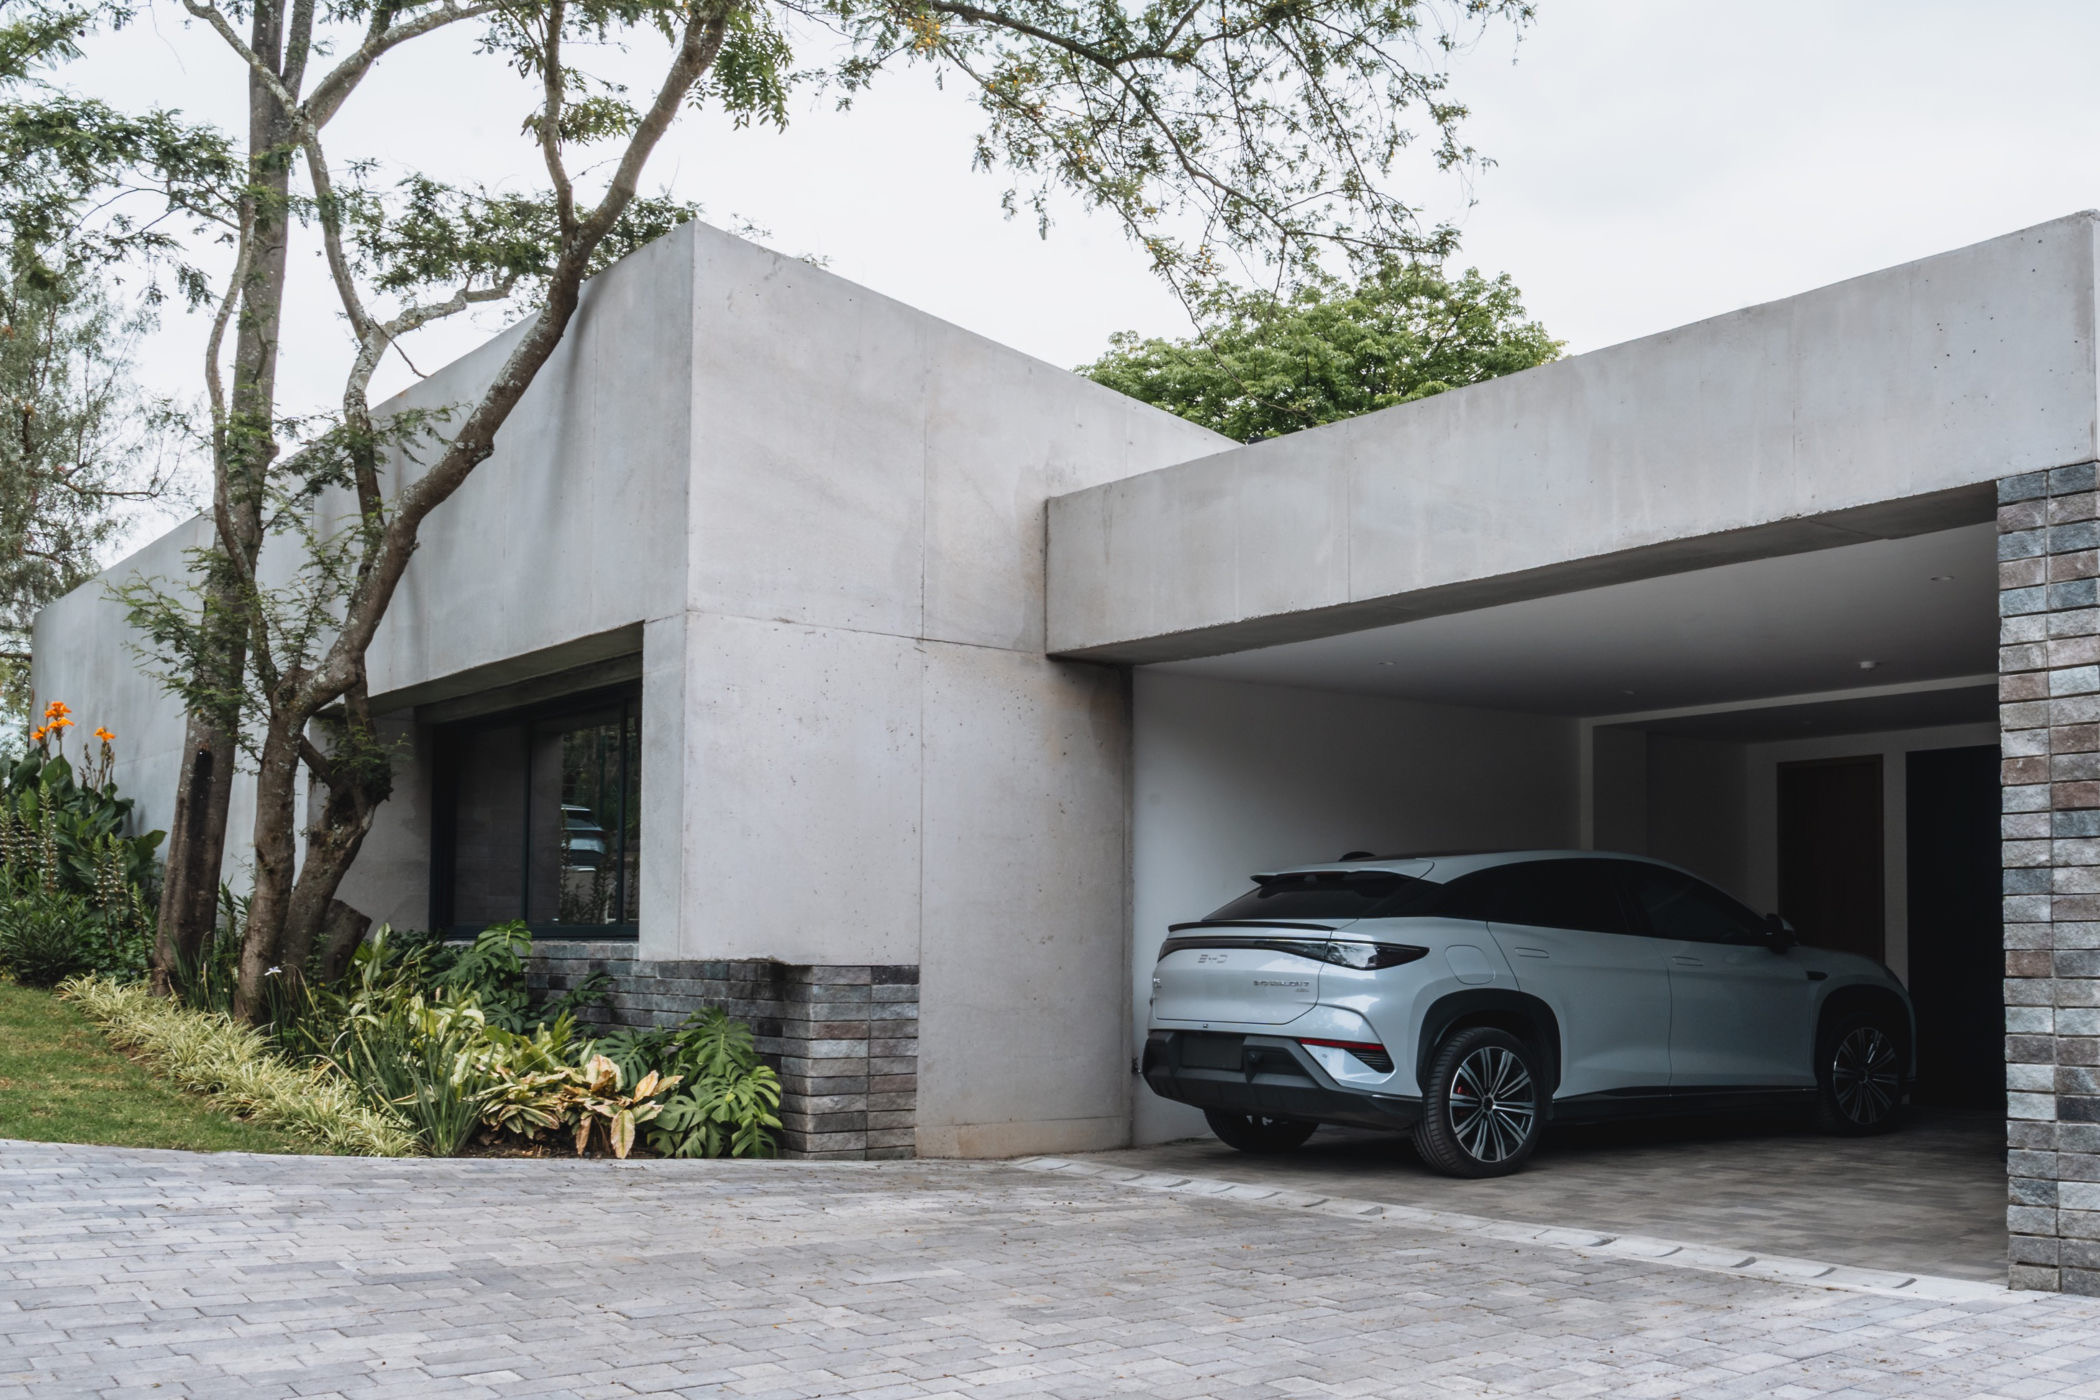
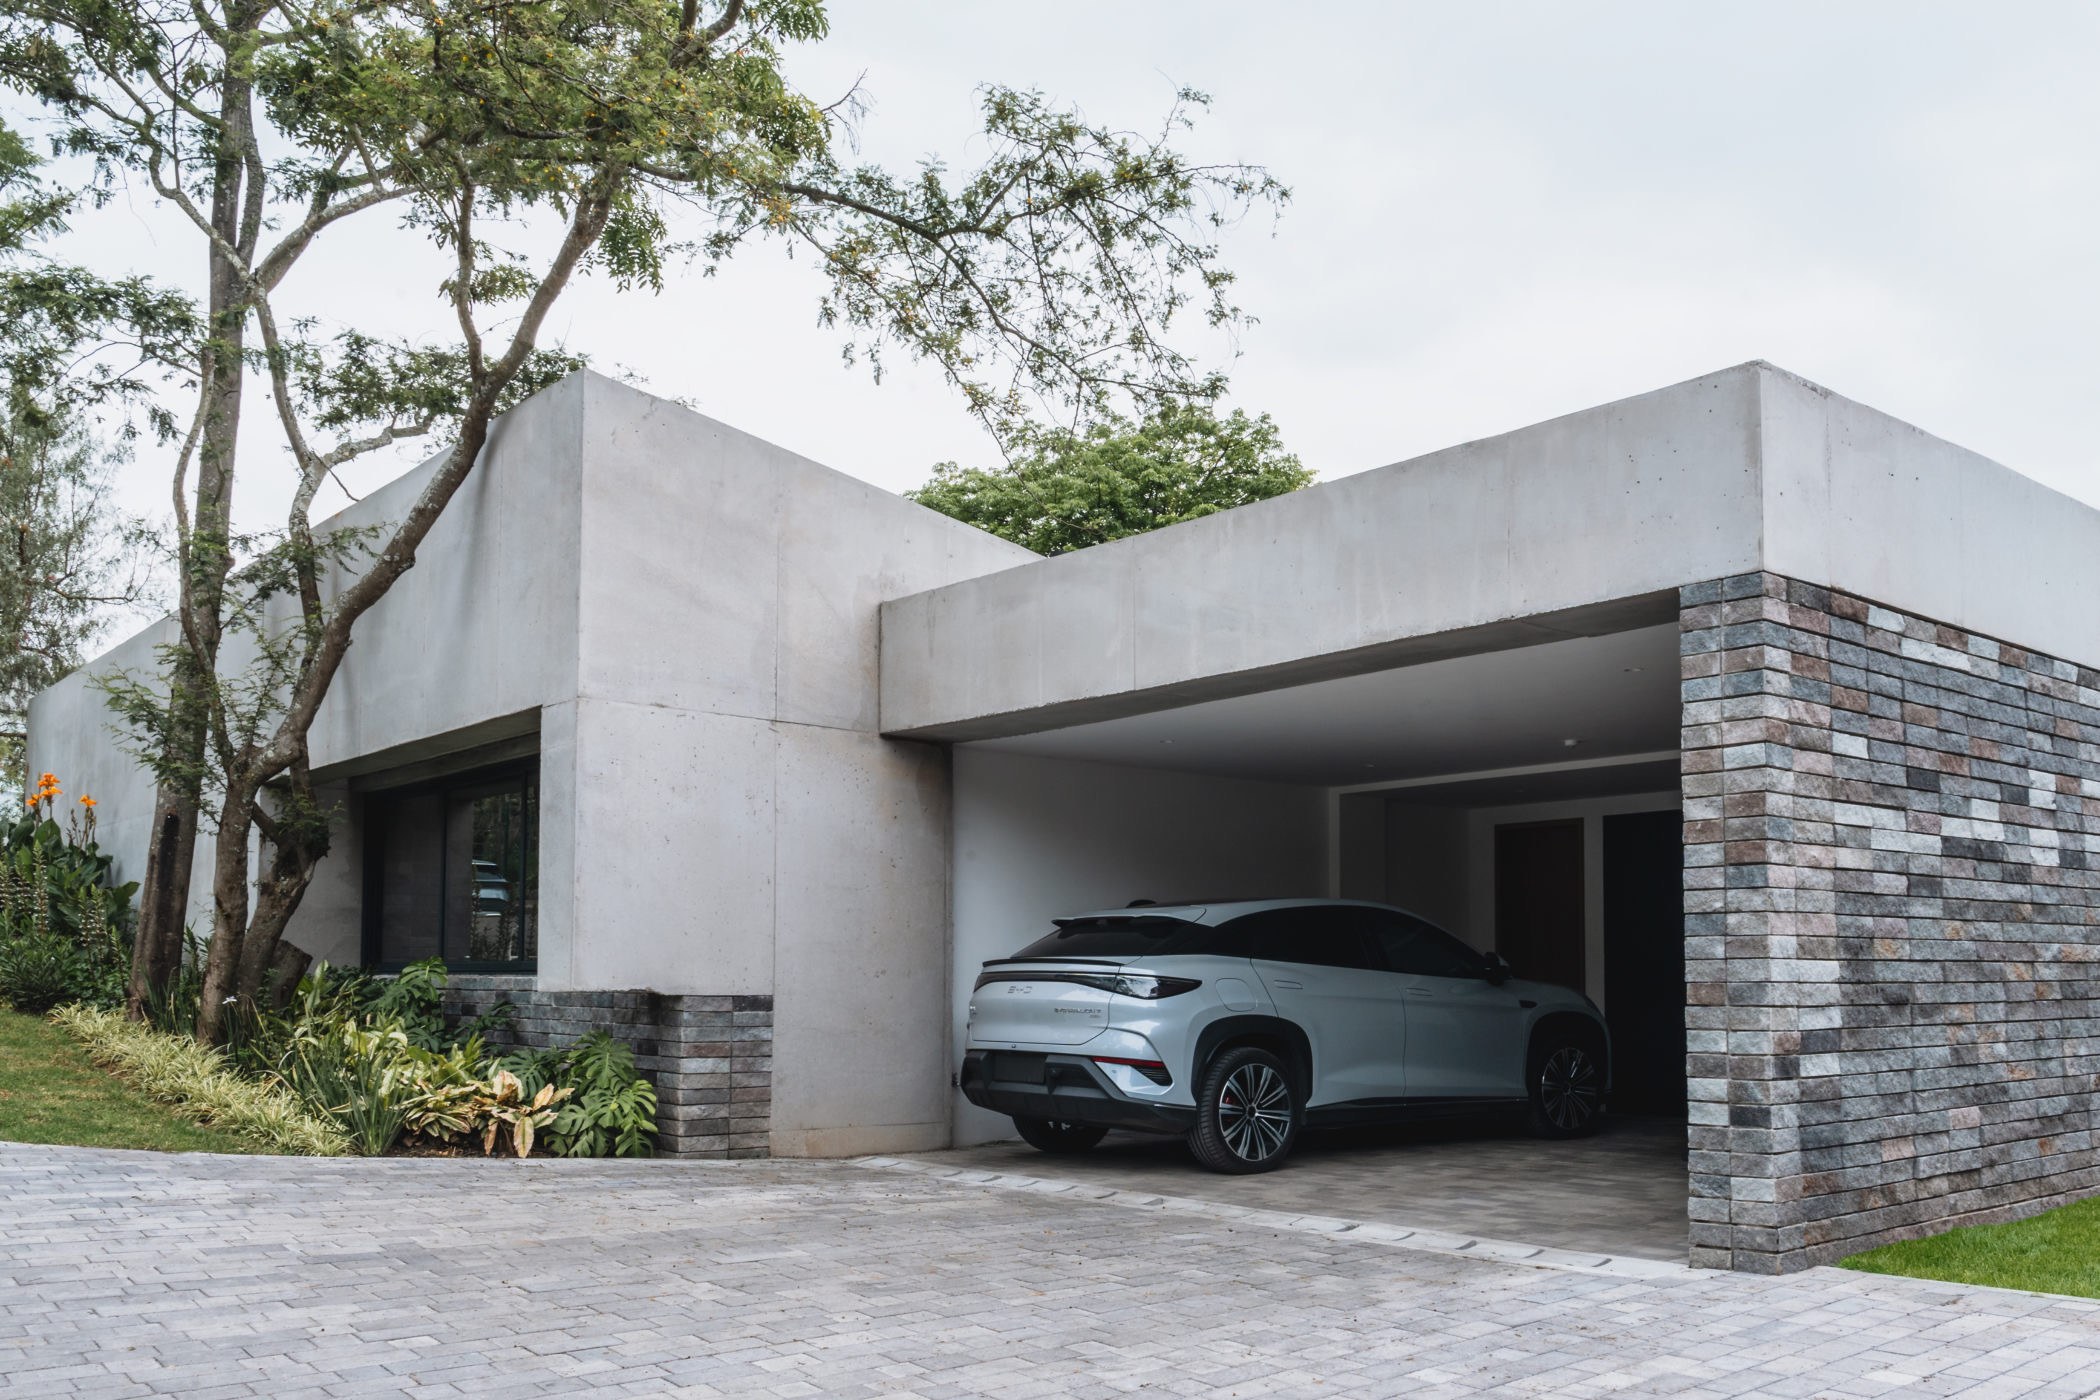
Inicio con encuadre más abierto; en computadora el comparador no recorta la foto y el visor encaja las imágenes en pantalla

diff --git a/src/index.css b/src/index.css
@@ -119,8 +119,9 @@ h1, h2, h3 { font-weight: 500; margin: 0 0 .5rem; }
 .lb-top { display: flex; align-items: center; gap: 16px; padding: 12px var(--gutter); }
 .lb-titulo { font-weight: 500; }
 .lb-cont { color: #999; font-size: .85rem; margin-right: auto; }
-.lb-escena { position: relative; display: grid; place-items: center; min-height: 0; padding: 0 var(--gutter); }
-.lb-img { max-width: 100%; max-height: 100%; object-fit: contain; display: block; }
+.lb-escena { position: relative; min-height: 0; }
+/* La foto ocupa todo el espacio disponible y se ajusta sin recortarse (en celular manda el ancho; en computadora, el alto). */
+.lb-img { position: absolute; inset: 0; width: 100%; height: 100%; object-fit: contain; display: block; padding: 0 var(--gutter); box-sizing: border-box; }
 .lb-btn {
   border: 0; background: rgba(255, 255, 255, .1); color: #fff; cursor: pointer;
   width: 44px; height: 44px; border-radius: 50%; font-size: 1.4rem; line-height: 1;
@@ -143,3 +144,14 @@ h1, h2, h3 { font-weight: 500; margin: 0 0 .5rem; }
   .lb-mini img { height: 44px; }
 }
 .resumen { font-size: .92rem; line-height: 1.5; margin: 8px 0 0; max-width: 60ch; }
+
+/* Inicio en computadora: el comparador mantiene la proporción 3:2 de las fotos (sin recortarlas)
+   y cabe entero en la pantalla, centrado. En celular sigue como antes. */
+@media (min-width: 700px) {
+  .ba {
+    height: auto; min-height: 0; aspect-ratio: 3 / 2;
+    width: min(100%, calc((100vh - 72px) * 1.5));
+    margin: 0 auto;
+  }
+  .hero-text { max-width: min(100%, calc((100vh - 72px) * 1.5)); margin: 0 auto; }
+}

diff --git a/CLAUDE.md b/CLAUDE.md
@@ -110,6 +110,7 @@ Remodelación de vivienda: interiores con cielo de madera y vigas, arcos nuevos,
       - `node render.mjs trabajos.json`: renderiza páginas o recortes (`recorte: [x0,y0,x1,y1]` en fracciones de página) a JPG.
       - PDFs grandes: usar `node --max-old-space-size=4096`.
     - **Orientación EXIF**: `sips` convierte HEIC dejando los píxeles acostados con la etiqueta Orientation=6. Antes de recortar, correr `node ~/Desktop/pdf-tools/normaliza.cjs <jpgs>` (gira píxeles y deja la etiqueta en 1). `sips -g pixelWidth` NO es fiable para esto; usar `node ~/Desktop/pdf-tools/dims.cjs <jpg>`.
+    - **Capturas del sitio** (computadora 1440×900 y celular 390×844, incluido el visor abierto): `npm run build && npx vite preview --port 4173` y luego `node ~/Desktop/pdf-tools/capturas.mjs http://localhost:4173/ <carpeta>` (puppeteer-core + Google Chrome instalado). Usarlo para revisar antes de subir cambios visuales.
     - Hojas de contacto: HTML con grilla de miniaturas + `qlmanage -t -s 1800 -o <dir> hoja.html`. Ojo: rutas con tildes no cargan, y qlmanage puede devolver una versión en caché.
 - **Espacio**: el disco interno de la Mac tiene poco espacio (~5 GB libres al 2026-10-12). Mantener el proyecto liviano y avisar antes de descargar cosas grandes.
 
@@ -135,7 +136,7 @@ Remodelación de vivienda: interiores con cielo de madera y vigas, arcos nuevos,
 | `public/img/obras/`, `public/img/academico/` | Portadas de tarjeta 1200×900 (4:3). |
 | `public/img/<slug>/` | Galería de cada proyecto: `NN.jpg` (fotos 1600 px; láminas 2000 px) + `NN-t.jpg` (miniatura 400 px). Orden: terminado primero, proceso al final. ~40 MB en total. |
 
-- **Hero (hecho)**: comparador de **Casa AJ** — `WORK/CASA AJ/ajviejo.HEIF` (en obra) vs `ajnuevo.JPEG` (terminada). Las fotos se tomaron desde puntos distintos, así que la de obra se **deformó para calzar** con la terminada con `~/Desktop/pdf-tools/alinear.mjs` (homografía optimizada por correlación de bordes + corrección suave de 2.º grado con block matching; el modo thin-plate spline ondula la fachada, no usarlo). Encuadre: 3:2, parte izquierda/central de la foto terminada (el muro lateral de ladrillo no aparece en la foto de obra). La fachada (losa, pilar, ventana, muro bajo) calza; árboles y suelo no pueden calzar por la paralaje. Salida 2100×1400. Etiquetas: "En obra" (izq.) / "Terminado" (der.).
+- **Hero (hecho)**: comparador de **Casa AJ** — `WORK/CASA AJ/ajviejo.HEIF` (en obra) vs `ajnuevo.JPEG` (terminada). Las fotos se tomaron desde puntos distintos, así que la de obra se **deformó para calzar** con la terminada con `~/Desktop/pdf-tools/alinear.mjs` (homografía optimizada por correlación de bordes + corrección suave de 2.º grado con block matching; el modo thin-plate spline ondula la fachada, no usarlo). Encuadre: 3:2, el 87 % izquierdo de la foto terminada (lo máximo que cubre la foto de obra; Joaquín pidió no hacer más zoom). La fachada (losa, pilar, ventana, muro bajo) calza; árboles y suelo no pueden calzar por la paralaje. Salida 2100×1400. Etiquetas: "En obra" (izq.) / "Terminado" (der.).
 - **Contacto (hecho)**: email `jsandrade10@gmail.com` (`mailto:`), teléfono `099 275 4846` (`tel:+593992754846`) y enlace a WhatsApp (`https://wa.me/593992754846`). Faltan LinkedIn/Instagram y CV.
 - **Proyectos (hecho)**: los 14 proyectos tienen portada y galería. Casa FR: todas sus fotos son de obra gris. Campos `null` = PENDIENTE y no se muestran.
 - **Pendiente**: Sobre mí (foto de perfil, línea de tiempo), frase de presentación del hero.
@@ -192,3 +193,4 @@ Antes de redactar los textos finales, pedir para cada obra de WORK: **ubicación
 - **2026-11-08 (cont. 2)** — Joaquín confirmó "Jefe de obra", permiso para todas las fotos, años de T6/T7 (2021) y Tesis (2022), YM = Quito 2025. Se instaló mupdf en `~/Desktop/pdf-tools`, se extrajeron texto y vistas de los 34 PDF (182 págs.), y se armaron galerías con visor para los 14 proyectos (8 obras + 6 académicos), con resúmenes de concepto sacados de las láminas. Portada de YM cambiada a `03.jpg` (arco y vano de doble altura).
 - **2026-11-08 (cont. 3)** — Académico: solo entregas finales (se quitaron análisis, anteproyectos y proceso; T8 ahora muestra recortes de su lámina final y ya no lleva el crédito de K. Pazmiño porque ese material no se muestra). Textos corregidos. Hero invertido (obra a la izquierda) y fotos alineadas.
 - **Siguiente paso sugerido**: revisar el sitio en el navegador (celular y escritorio); textos "En pocas palabras" por obra; Sobre mí (foto, línea de tiempo: USFQ (año de ingreso PENDIENTE)–2022, Portugal 2022, Arq. Buró); frase del hero; páginas de proyecto individuales si hacen falta.
+- **2026-11-08 (cont. 4)** — Hero con encuadre más abierto (87 % del ancho). En computadora: el comparador mantiene 3:2 sin recortar y cabe en la pantalla; el visor ya no se sale de la pantalla (antes `max-height: %` no se resolvía). Verificado con capturas de Chrome.
